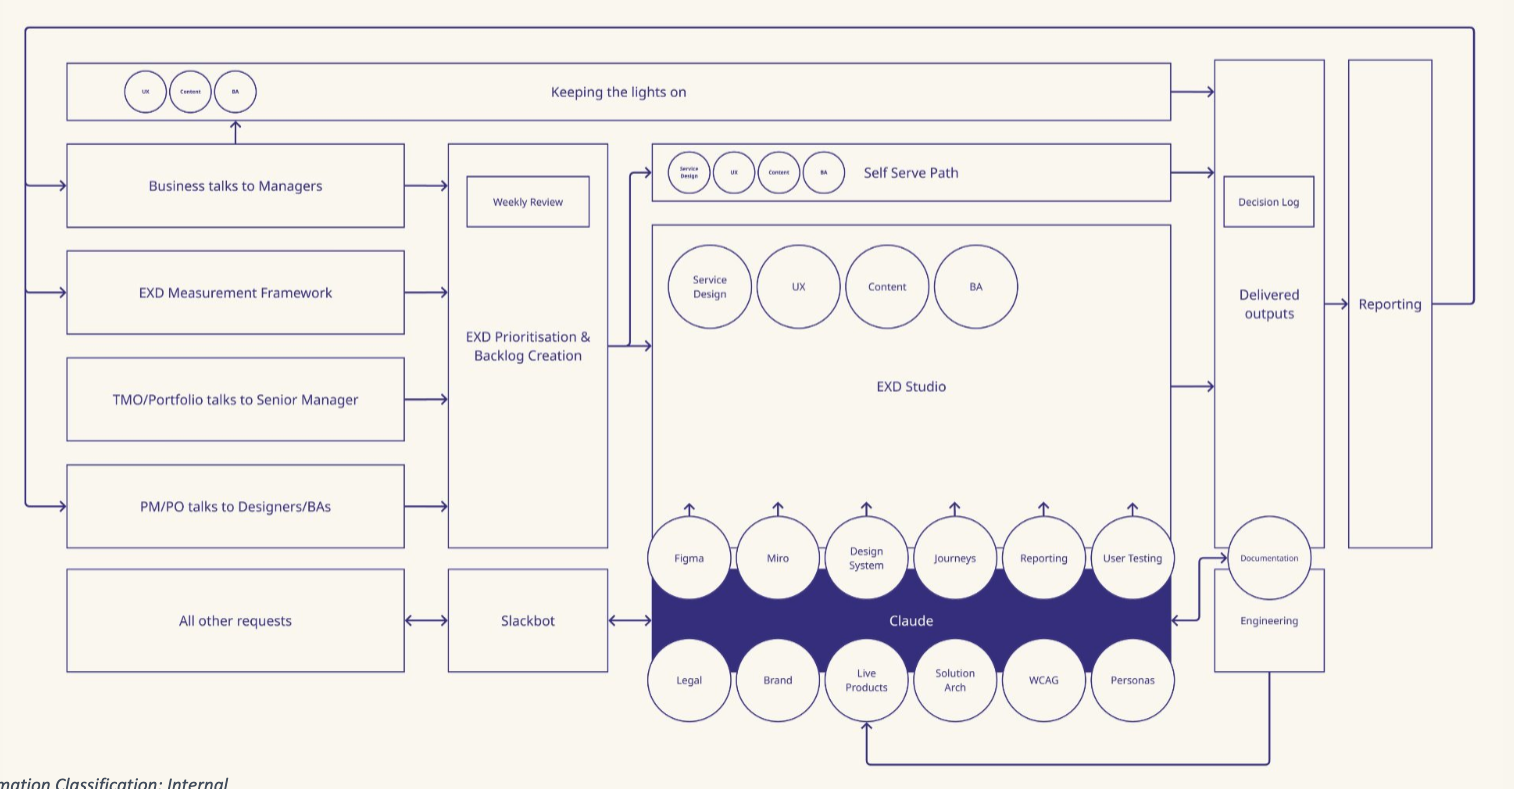
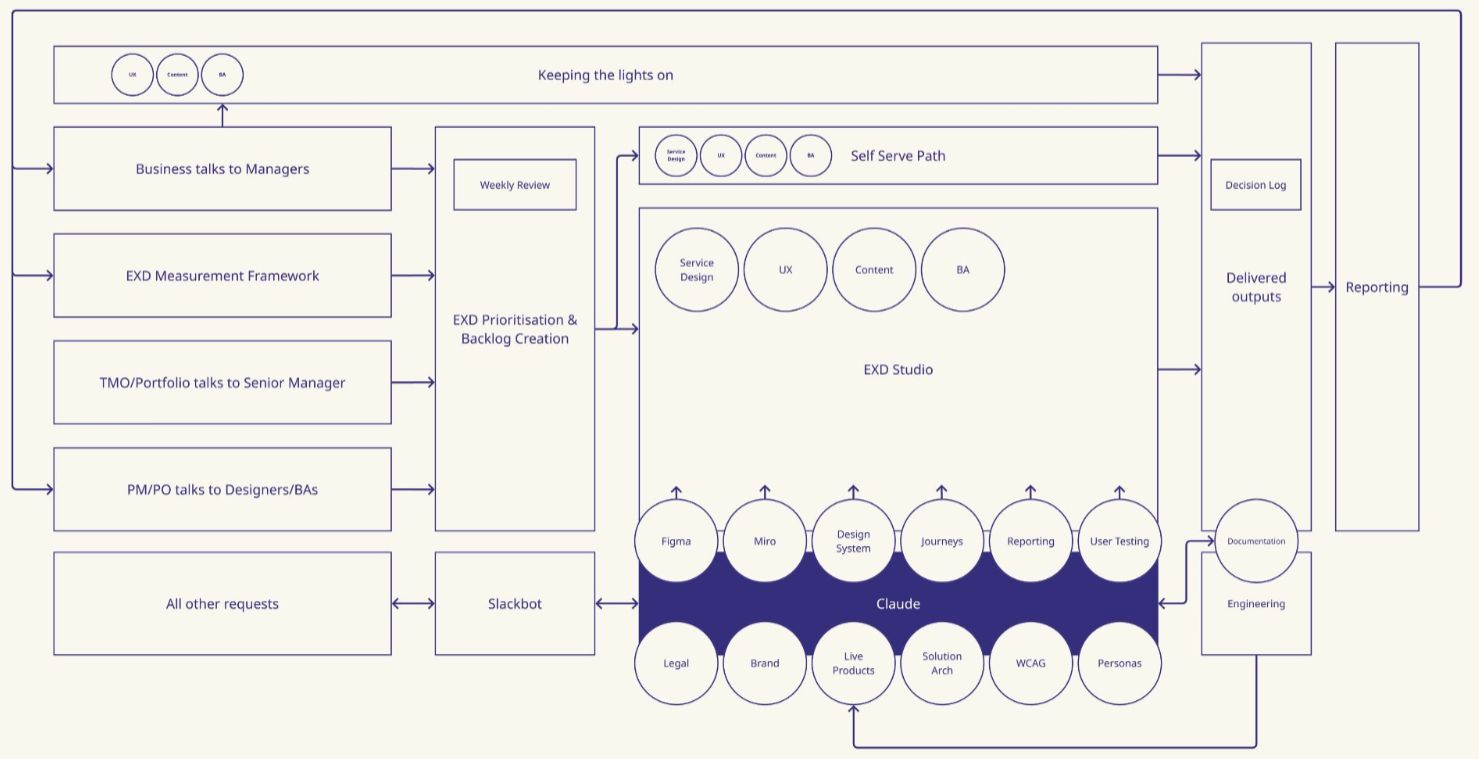
Eight fixes — footer, LinkedIn, about, images, freelance scroll

diff --git a/src/data/projects.ts b/src/data/projects.ts
@@ -1,8 +1,8 @@
 import type { ImageMetadata } from 'astro';
-import competitorAnalysisImage from '../assets/images/competitor-analysis.png';
+import miroIdeationCritiqueImage from '../assets/images/miro-ideation-critique-example.png';
 import myAccountImage from '../assets/images/my-account.png';
 import journeyMap1Image from '../assets/images/journey-map-1.png';
-import designSystem1Image from '../assets/images/design-system-1.png';
+import designSystem1Image from '../assets/images/design-system-2.png';
 import uxBenchmarkingImage from '../assets/images/ux-benchmarking.png';
 import wayOfWorkingImage from '../assets/images/way-of-working-1.png';
 
@@ -28,8 +28,8 @@ export const projects: Project[] = [
     background: 'lime',
     variant: 'desktop',
     href: '/portfolio/work/ux-process',
-    image: competitorAnalysisImage,
-    alt: 'Competitor analysis board showing annotated screenshots across multiple insurance providers',
+    image: miroIdeationCritiqueImage,
+    alt: 'FigJam discovery session showing problem framing, competitor analysis, and design options',
     imageClass: 'project-preview-image',
   },
   {

diff --git a/src/config/site.ts b/src/config/site.ts
@@ -54,6 +54,6 @@ export const siteConfig: SiteConfig = {
 	],
 	legalLinks: [],
 	socialLinks: [
-		{ href: 'https://www.linkedin.com/in/asmithdigital/', label: 'LinkedIn' },
+		{ href: 'https://www.linkedin.com/in/andrewstephensmith/', label: 'LinkedIn' },
 	],
 };
